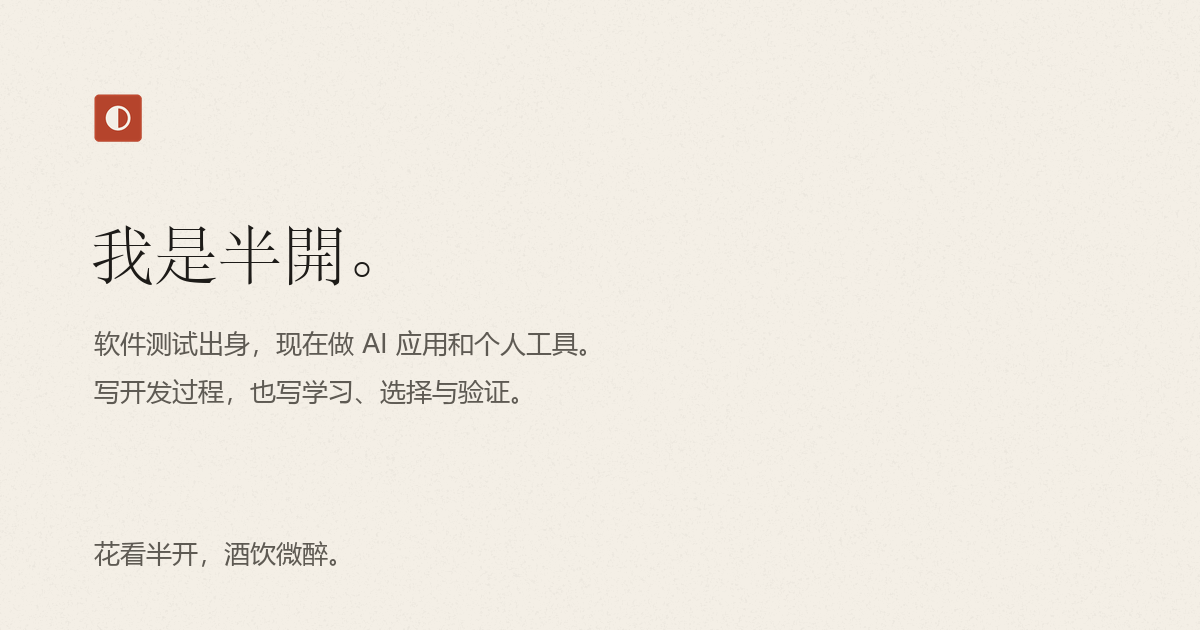
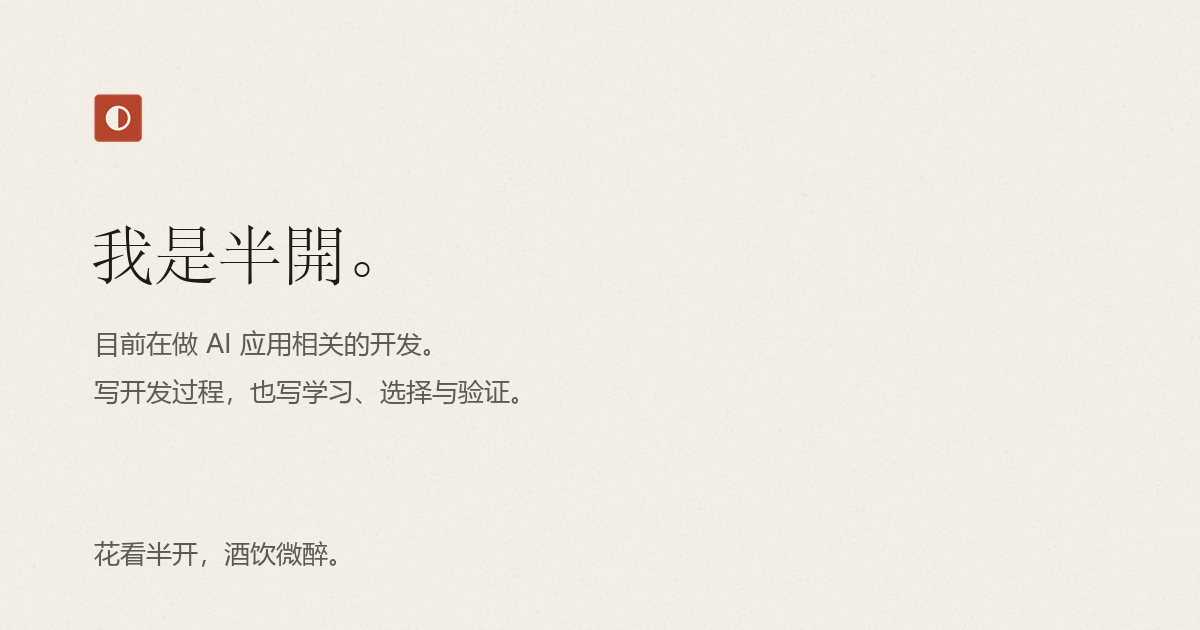
feat: lead the home page with what I am building now; bring back the couplet, seal and moon
- The home intro (zh and en) now says what I am working on (AI applications) instead of the testing background.
- A small vertical couplet (the tagline) returns at the right of the intro, with a 32px seal under it and a faint moon behind both. The moon follows the hero height; phones keep only the moon.
- The share image is regenerated; DESIGN.md and README.md describe the new layout; tests cover the couplet, the seal and the new intro.

Changed region(s): [[0.0617, 0.5127, 0.4933, 0.573]]

diff --git a/static/styles.css b/static/styles.css
@@ -246,11 +246,27 @@ main { flex: 1; }
 
 /* ---------- 首屏 ---------- */
 
-/* 首页沿同一条阅读轴排版；页眉印章是唯一的视觉标识。 */
+/* 首页沿同一条阅读轴排版：左边是个人介绍，右边是题句与印章，背后一轮极淡的月。 */
 body:has(.home) .wrap { --wrap: 840px; }
 html[lang="en"] .home { --serif: var(--book); }
-.hero { padding-block: var(--s7) var(--s6); }
-.hero__grid { display: block; }
+/* isolation 让月（z-index: -1）留在首屏区域内；overflow: clip 把月裁在首屏区域里 */
+.hero { isolation: isolate; padding-block: var(--s7) var(--s6); overflow: clip; }
+.hero__grid { position: relative; display: grid; grid-template-columns: minmax(0, 1fr) auto; column-gap: var(--s6); align-items: start; }
+/* 背后一轮极淡的月，不抢文字：直径跟着首屏区域的高度走（上下各留 12px），圆心落在题句与印章中间。
+   整轮月都在首屏区域内，不会被上下裁出平边；窄屏时右侧超出屏幕的部分由 .hero 裁掉。 */
+.hero__grid::before {
+  content: "";
+  position: absolute;
+  z-index: -1;
+  top: calc(var(--s3) - var(--s7));
+  left: 100%;
+  height: calc(100% + var(--s7) + var(--s6) - 2 * var(--s3));
+  aspect-ratio: 1;
+  transform: translateX(-62%);
+  border-radius: 50%;
+  border: 1px solid var(--line);
+  background: radial-gradient(circle at 34% 34%, color-mix(in srgb, var(--paper-deep) 90%, transparent) 0 42%, transparent 72%);
+}
 .hero__text { max-width: 36em; }
 .hero__lead {
   margin: 0 0 var(--s4);
@@ -262,6 +278,31 @@ html[lang="en"] .home { --serif: var(--book); }
 .hero__recent > span { display: block; color: var(--ink-3); font-size: 14px; margin-bottom: var(--s1); }
 .hero__recent a { text-decoration: underline; text-decoration-color: var(--line-strong); text-underline-offset: 4px; }
 .hero__recent a:hover { color: var(--cinnabar); }
+
+/* 个人介绍右侧的题句与印章：右边缘对齐页面右边缘；窄屏只留背后的月（页脚仍有这句话） */
+.hero__mark {
+  display: flex;
+  flex-direction: column;
+  align-items: flex-end;
+  gap: var(--s4);
+  margin-top: var(--s3); /* 题句首字与主句“我是半開。”的字顶对齐 */
+}
+.hero__couplet {
+  margin: 0;
+  writing-mode: vertical-rl;
+  font: 400 15px/1 var(--serif);
+  letter-spacing: 0.5em;
+  color: var(--ink-2); /* 底下有月的淡底色，用 ink-2 保证对比度 */
+}
+.hero__couplet-line {
+  display: block;
+  padding-block-start: var(--s3);
+  border-block-start: 1px solid var(--line);
+}
+.hero__couplet-line + .hero__couplet-line { margin-block-start: var(--s3); padding-inline-start: var(--s5); }
+html[lang="en"] .hero__couplet { font-size: 13px; letter-spacing: 0.08em; }
+/* 印章图形在 48 单位的画布里四边各留 4 单位，负边距让可见的右边缘对齐题句的细线 */
+.hero__seal { width: 32px; height: 32px; margin-inline-end: -3px; }
 
 /* ---------- 区块 ---------- */
 
@@ -670,6 +711,7 @@ body:has(.post) { background-image: none; }
   /* 入场编排只在本会话首次访问时播放（boot.js 给 <html> 加 .seen）；
      站内再翻页由下面的跨页过渡接手。没有 JS 时不会有 .seen，始终播放。 */
   html:not(.seen) .hero__text { animation: rise 0.5s var(--ease) both; }
+  html:not(.seen) .hero__mark { animation: rise 0.5s var(--ease) both; }
   html:not(.seen) .page-head { animation: rise 0.8s var(--ease) both; }
   html:not(.seen) .page-head ~ * { animation: rise 0.8s var(--ease) 0.12s both; }
   html:not(.seen) .poem { animation: rise 0.9s var(--ease) 0.25s both; }
@@ -729,6 +771,13 @@ body:has(.post) { background-image: none; }
   .nav { justify-content: flex-start; gap: var(--s2) var(--s3); font-size: 14px; letter-spacing: 0.02em; }
 
   .hero { padding-block: var(--s6); }
+  .hero__grid { display: block; }
+  .hero__grid::before {
+    top: calc(var(--s3) - var(--s6));
+    height: calc(100% + 2 * var(--s6) - 2 * var(--s3));
+    transform: translateX(-45%);
+  }
+  .hero__mark { display: none; }
   .hero__lead { font-size: 28px; }
 
   .section { padding-block: var(--s6); }

diff --git a/tests/test_sitegen.py b/tests/test_sitegen.py
@@ -196,6 +196,26 @@ def test_each_status_has_a_distinct_moon() -> None:
     assert len(shapes) == len(content.STATUSES)
 
 
+def _couplet_lines(hero_html: str) -> list[str]:
+    return re.findall(r'<span class="hero__couplet-line">([^<]*)</span>', hero_html)
+
+
+def _tagline_context(tagline: str, locale: str = "zh") -> render.Context:
+    return render.Context(site={"tagline": tagline}, show_writing=False, css_href="/styles.css", year=2026, locale=locale)
+
+
+def test_couplet_splits_the_tagline_by_locale_and_escapes_text() -> None:
+    assert _couplet_lines(render._couplet(_tagline_context("花看半开，酒饮微醉。"))) == ["花看半开", "酒饮微醉"]
+    assert _couplet_lines(render._couplet(_tagline_context("A, b; c.", "en"))) == ["A, b", "c"]
+    assert _couplet_lines(render._couplet(_tagline_context("只有一句。"))) == ["只有一句"]
+    assert render._couplet(_tagline_context("。，")) == ""
+    markup = render._couplet(_tagline_context("<b>x</b>，&y"))
+    assert "<b>" not in markup and "&lt;b&gt;x&lt;/b&gt;" in markup and "&amp;y" in markup
+    # 印章跟着题句走：有题句才落印，题句为空时整块省略
+    assert render._hero_mark(_tagline_context("花看半开，酒饮微醉。")).count("hero__seal") == 1
+    assert render._hero_mark(_tagline_context("。，")) == ""
+
+
 def test_build_outputs_pages_and_skips_drafts(tmp_path: Path) -> None:
     out = build.build(ROOT, tmp_path / "dist")
     for rel in ["index.html", "about/index.html", "projects/knowledge/index.html",
@@ -218,13 +238,23 @@ def test_build_outputs_pages_and_skips_drafts(tmp_path: Path) -> None:
     assert "<title>半開｜个人产品与开发札记</title>" in index
     assert '<h1 class="hero__lead">' in index
     assert "我是半開" in index
-    assert "软件测试出身" in index
+    assert "目前在做 AI 应用相关的开发。" in index
+    assert "软件测试出身" not in index
     assert "写开发过程" in index
     assert 'class="hero__job"' not in index
     hero = index.split('<section class="hero">')[1].split('</section>')[0]
     assert 'href="/writing/rag-hybrid-search/"' in hero
     assert "RAG 混合检索怎么做" in hero
     assert 'class="scroll"' not in index
+    # 个人介绍右侧是 tagline 的两行竖排小字加一方印（背后的月由 CSS 绘制），没有旧版的大题名
+    assert _couplet_lines(hero) == ["花看半开", "酒饮微醉"]
+    assert hero.count('class="seal hero__seal"') == 1
+    en_index = (out / "en" / "index.html").read_text(encoding="utf-8")
+    en_hero = en_index.split('<section class="hero">')[1].split('</section>')[0]
+    assert _couplet_lines(en_hero) == ["Let flowers bloom halfway", "leave room for the rest"]
+    assert en_hero.count('class="seal hero__seal"') == 1
+    assert "Currently building AI applications." in en_hero
+    assert "From software testing to AI applications and personal tools." not in en_index
     assert 'class="hero__actions"' not in hero
     names = ["衡仓", "投资看板", "角色设定卡"]
     listing = index.split('<ol class="index">')[1].split("</ol>")[0]

diff --git a/sitegen/render.py b/sitegen/render.py
@@ -284,6 +284,20 @@ def _post_rows(posts: list[Doc], ctx: Context) -> str:
     return f'<ul class="posts">{rows}</ul>'
 
 
+def _couplet(ctx: Context) -> str:
+    """个人介绍右侧的两行竖排小字：tagline 按分句拆开，样式见 .hero__couplet。"""
+    separator = ";" if ctx.locale == "en" else "，"
+    parts = (part.strip("，。;,. ") for part in ctx.site["tagline"].split(separator))
+    lines = "".join(f'<span class="hero__couplet-line">{_e(part)}</span>' for part in parts if part)
+    return f'<p class="hero__couplet">{lines}</p>' if lines else ""
+
+
+def _hero_mark(ctx: Context) -> str:
+    """题句下面落一方印；它们背后的月由 .hero__grid::before 绘制。没有题句时连印章一起省略。"""
+    couplet = _couplet(ctx)
+    return f'<div class="hero__mark">{couplet}{seal("hero__seal")}</div>' if couplet else ""
+
+
 def home(ctx: Context, projects: list[Project], posts: list[Doc]) -> str:
     site = ctx.site
     copy = ctx.copy
@@ -311,6 +325,7 @@ def home(ctx: Context, projects: list[Project], posts: list[Doc]) -> str:
       <p class="hero__intro">{intro}</p>
       {recent}
     </div>
+    {_hero_mark(ctx)}
   </div>
 </section>
 

diff --git a/DESIGN.md b/DESIGN.md
@@ -4,9 +4,9 @@
 
 ## 1. 这个站是什么
 
-2026-10-11 简洁优化：首先让访客认识半開，再找到文章与工具。首页采用最大 840px 的单列：姓名主句 → 两句身份与写作说明 → 一篇最新文章入口 → 三项精选产品 → 最新文章。完整区块仍保持产品在前、文章在后。职业经历留在关于页，首页明确测试背景与 AI 应用方向，求职信息移除。
+2026-10-11 简洁优化：首先让访客认识半開，再找到文章与工具。首页采用最大 840px 的单列：姓名主句 → 两句自我介绍（目前在做什么、写什么）→ 一篇最新文章入口 → 三项精选产品 → 最新文章。完整区块仍保持产品在前、文章在后。职业经历留在关于页，首页只说目前在做 AI 应用相关的开发，不提测试背景（2026-10-15 用户决定），求职信息移除。
 
-保留纸色、宋体、朱砂半月印章与页脚诗句；移除纸纹、首页挂轴、大月背景、重复题名、上方小标签与按钮组。首页产品不编号、不重复在线状态或“开发记录”提示；名称通向介绍，独立“打开”入口直达产品，说明保留使用边界。桌面产品名称与说明同行，手机上下排列；节标题不拉大字距，区块说明只在必要处出现。
+保留纸色、宋体、朱砂半月印章与页脚诗句；移除纸纹、首页大挂轴里的大题名、重复题名、上方小标签与按钮组；2026-10-15 起个人介绍右侧恢复 tagline 的两行竖排小字、一方印章和背后一轮极淡的月（见 §6“题句、印章与月”）。首页产品不编号、不重复在线状态或“开发记录”提示；名称通向介绍，独立“打开”入口直达产品，说明保留使用边界。桌面产品名称与说明同行，手机上下排列；节标题不拉大字距，区块说明只在必要处出现。
 
 文章保持单列，显示实践/教程/随笔类型。长文不少于三个二级标题时生成目录；桌面目录在正文右侧，窄屏为正文前的折叠目录。文章详情增加摘要、相关产品、继续阅读和作者/RSS 入口。正文维持 36em 行宽，代码与表格各自滚动。无真实近况时不生成近况区，不生成空分类或占位文章。
 
@@ -20,8 +20,8 @@
 ## 2. 设计概念：纸上留白
 
 - 意象：花看半开，人生小满，半遮半掩。
-- 表现：纸色底、墨色字、一点朱砂。留白由阅读节奏决定，不用大图形填充；首页个人介绍与文章入口优先。月相在完整目录表示项目公开程度。
-- 记忆点：页眉的朱砂半月印章与“半開”；页脚保留“花看半开，酒饮微醉”。
+- 表现：纸色底、墨色字、一点朱砂。留白由阅读节奏决定，不用大图形填充（首屏右侧背后那一轮极淡的月除外）；首页个人介绍与文章入口优先。月相在完整目录表示项目公开程度。
+- 记忆点：页眉的朱砂半月印章与“半開”；首页个人介绍右侧的月、竖排题句与印章；页脚再有一次“花看半开，酒饮微醉”。
 
 ## 3. 色彩
 
@@ -55,12 +55,16 @@
 - 间距只取 8 倍数序列：4 / 8 / 12 / 16 / 24 / 32 / 48 / 64 / 96 / 128。
 - 首页与其页眉页脚最大宽度 840px，内页最大宽度 1120px；正文行宽不超过 36em。
 - 页眉品牌保持单行且不收缩；导航空间足够时单行，不足时自然换行，每个标签保持完整。手机端减少导航间距，保持可见焦点。
-- 左对齐叙事流，首页从个人介绍进入产品与文章，无装饰侧栏。
+- 左对齐叙事流，首页从个人介绍进入产品与文章；除个人介绍右侧的月、题句与印章外没有装饰侧栏。
 - 关于页：桌面（宽度 ≥ 1024px）标题通栏，正文在左，“联系与账号”作为右侧栏，随滚动吸附在视口内；窄于 1024px 时侧栏落到正文之后，恢复单列。
 
 ## 6. 组件
 
-- **印章**：朱砂方印，边缘略带毛边，中间留出纸色半月（白文印的做法）。页眉 28px，页脚 20px，分享图 56px；首页不再重复放印章。
+- **印章**：朱砂方印，边缘略带毛边，中间留出纸色半月（白文印的做法）。页眉 28px，页脚 20px，分享图 56px，首页个人介绍右侧 32px（见下条）。
+- **题句、印章与月**：首页个人介绍右侧的一组装饰；窄屏（≤ 680px）只留月，页脚仍有题句。
+  - 题句：`tagline` 按分句拆开（中文按“，”，英文按“;”）的两行竖排小字；15px（英文页 13px，字母旋转 90°），`--ink-2`（底下有月的淡底色，`--ink-3` 的对比度不够），字间 0.5em（英文 0.08em）；每行右侧一条细线，第二行比第一行低 24px。右边缘与页面内容右边缘对齐，首字与主句字顶对齐。
+  - 印章：题句下方 16px 落一枚 32px 的印章，可见的右边缘与细线对齐。没有题句时印章一起省略。
+  - 月：`.hero__grid::before` 画的一轮圆，直径等于首屏区域高度减 24px（上下各留 12px，整轮月都在首屏内，不会被裁出平边），圆心落在题句与印章中间；1px `--line` 边线，左上偏亮的 `--paper-deep` 渐变。手机上缩到只露出右侧一段。月只是背景，不参与交互，也不承载信息。
 - **月相状态**：○ 建设中 · ◐ 仅介绍 · ◕ 开源 · ● 在线。“在线”用朱砂，其余用墨色，旁边始终配文字。
 - **目录行**：完整产品目录保留序号、名称与说明、状态和产品入口；首页只保留名称、短说明与打开入口。首页悬停仅改变链接文字颜色，完整目录沿用侧线反馈；“建设中”不可点击。
 - **流程条**：项目介绍页用横向步骤条表示方案，手机上改为纵向。
@@ -69,7 +73,7 @@
 
 ## 7. 动效
 
-- 首屏文字仅一次轻微入场，首屏以下区块沿用已有显现逻辑。只在本次会话首次访问时播放（`boot.js` 给 `<html>` 加 `seen`）；同一会话内再翻页不重播，没有 JS 时内容仍可读。首页不新增编排或挂轴动画。
+- 首屏文字仅一次轻微入场，首屏以下区块沿用已有显现逻辑。只在本次会话首次访问时播放（`boot.js` 给 `<html>` 加 `seen`）；同一会话内再翻页不重播，没有 JS 时内容仍可读。题句（连同印章）与首屏文字使用同一个入场动画，月不动；首页没有其他编排或挂轴动画。
 - 目录行进入视口时依次淡入，只作用于首屏以下的块（首屏内的块始终可见）；再次访问直接可见。悬停反馈 200–350ms。
 - 站内翻页使用浏览器的跨页过渡（`@view-transition`）：新旧页面 0.15s 淡入淡出，页面一出现就是完整的；不支持的浏览器照常整页跳转。
 - 不弹跳、不循环、不跟随鼠标；开启“减少动态效果”时全部关闭（含跨页过渡）。

diff --git a/README.md b/README.md
@@ -2,7 +2,7 @@
 
 # 半開 · 个人站
 
-个人产品与开发札记的入口。首页为简洁单列，先交代作者背景与写作主题并给出最新文章入口，再展示精选产品和文章列表。纯静态，无登录、无后端，可部署在 Cloudflare Pages 或 Vercel。设计规则见 [DESIGN.md](DESIGN.md)。
+个人产品与开发札记的入口。首页为简洁单列，先用两句话交代目前在做什么与写作主题并给出最新文章入口（个人介绍右侧是竖排小字题句、印章和背后一轮极淡的月），再展示精选产品和文章列表。纯静态，无登录、无后端，可部署在 Cloudflare Pages 或 Vercel。设计规则见 [DESIGN.md](DESIGN.md)。
 
 ## 本地预览
 
@@ -26,7 +26,7 @@ py -3 -m http.server 8787 --bind 127.0.0.1 --directory dist
 
 ### 首页、关于页与公开配置
 
-- `headline` 是首页主句；`intro` 支持换行，说明身份与写作主题；首屏文章入口从本语言已构建文章中取最新一篇。`identity` 用于关于页、文章作者说明和 Person JSON-LD。`home_title`、`description` 管理首页元数据。
+- `headline` 是首页主句；`intro` 支持换行，一行一句，说明目前在做什么与写作主题；首屏文章入口从本语言已构建文章中取最新一篇。`tagline` 在首页个人介绍右侧排成两行竖排小字（中文按“，”、英文按“;”拆成两行，下面落一方印；窄屏只留背后的月），也用于页脚、RSS 副标题和分享图。`identity` 用于关于页、文章作者说明和 Person JSON-LD。**改了中文 `intro` 或 `tagline` 之后要运行 `py -3 tools/make_images.py` 重新生成 `static/og-image.png`**（分享图里印着这两句），再一起提交。`home_title`、`description` 管理首页元数据。
 - 页眉仅产品、文章、关于、语言切换。`sponsored_links` 管理页脚推广链接，自动标注推广并添加 `rel="sponsored noopener"`。
 - `skills`、邮箱及 `accounts` 复用到公开 Person 信息；未核实的账号链接保持空白，不生成链接或 `sameAs`。
 - 页面资源内容哈希、首访动画与预取行为保留。CSP 本地核对需带响应头服务；普通 `http.server` 不会应用 `_headers` 或 `vercel.json`。
